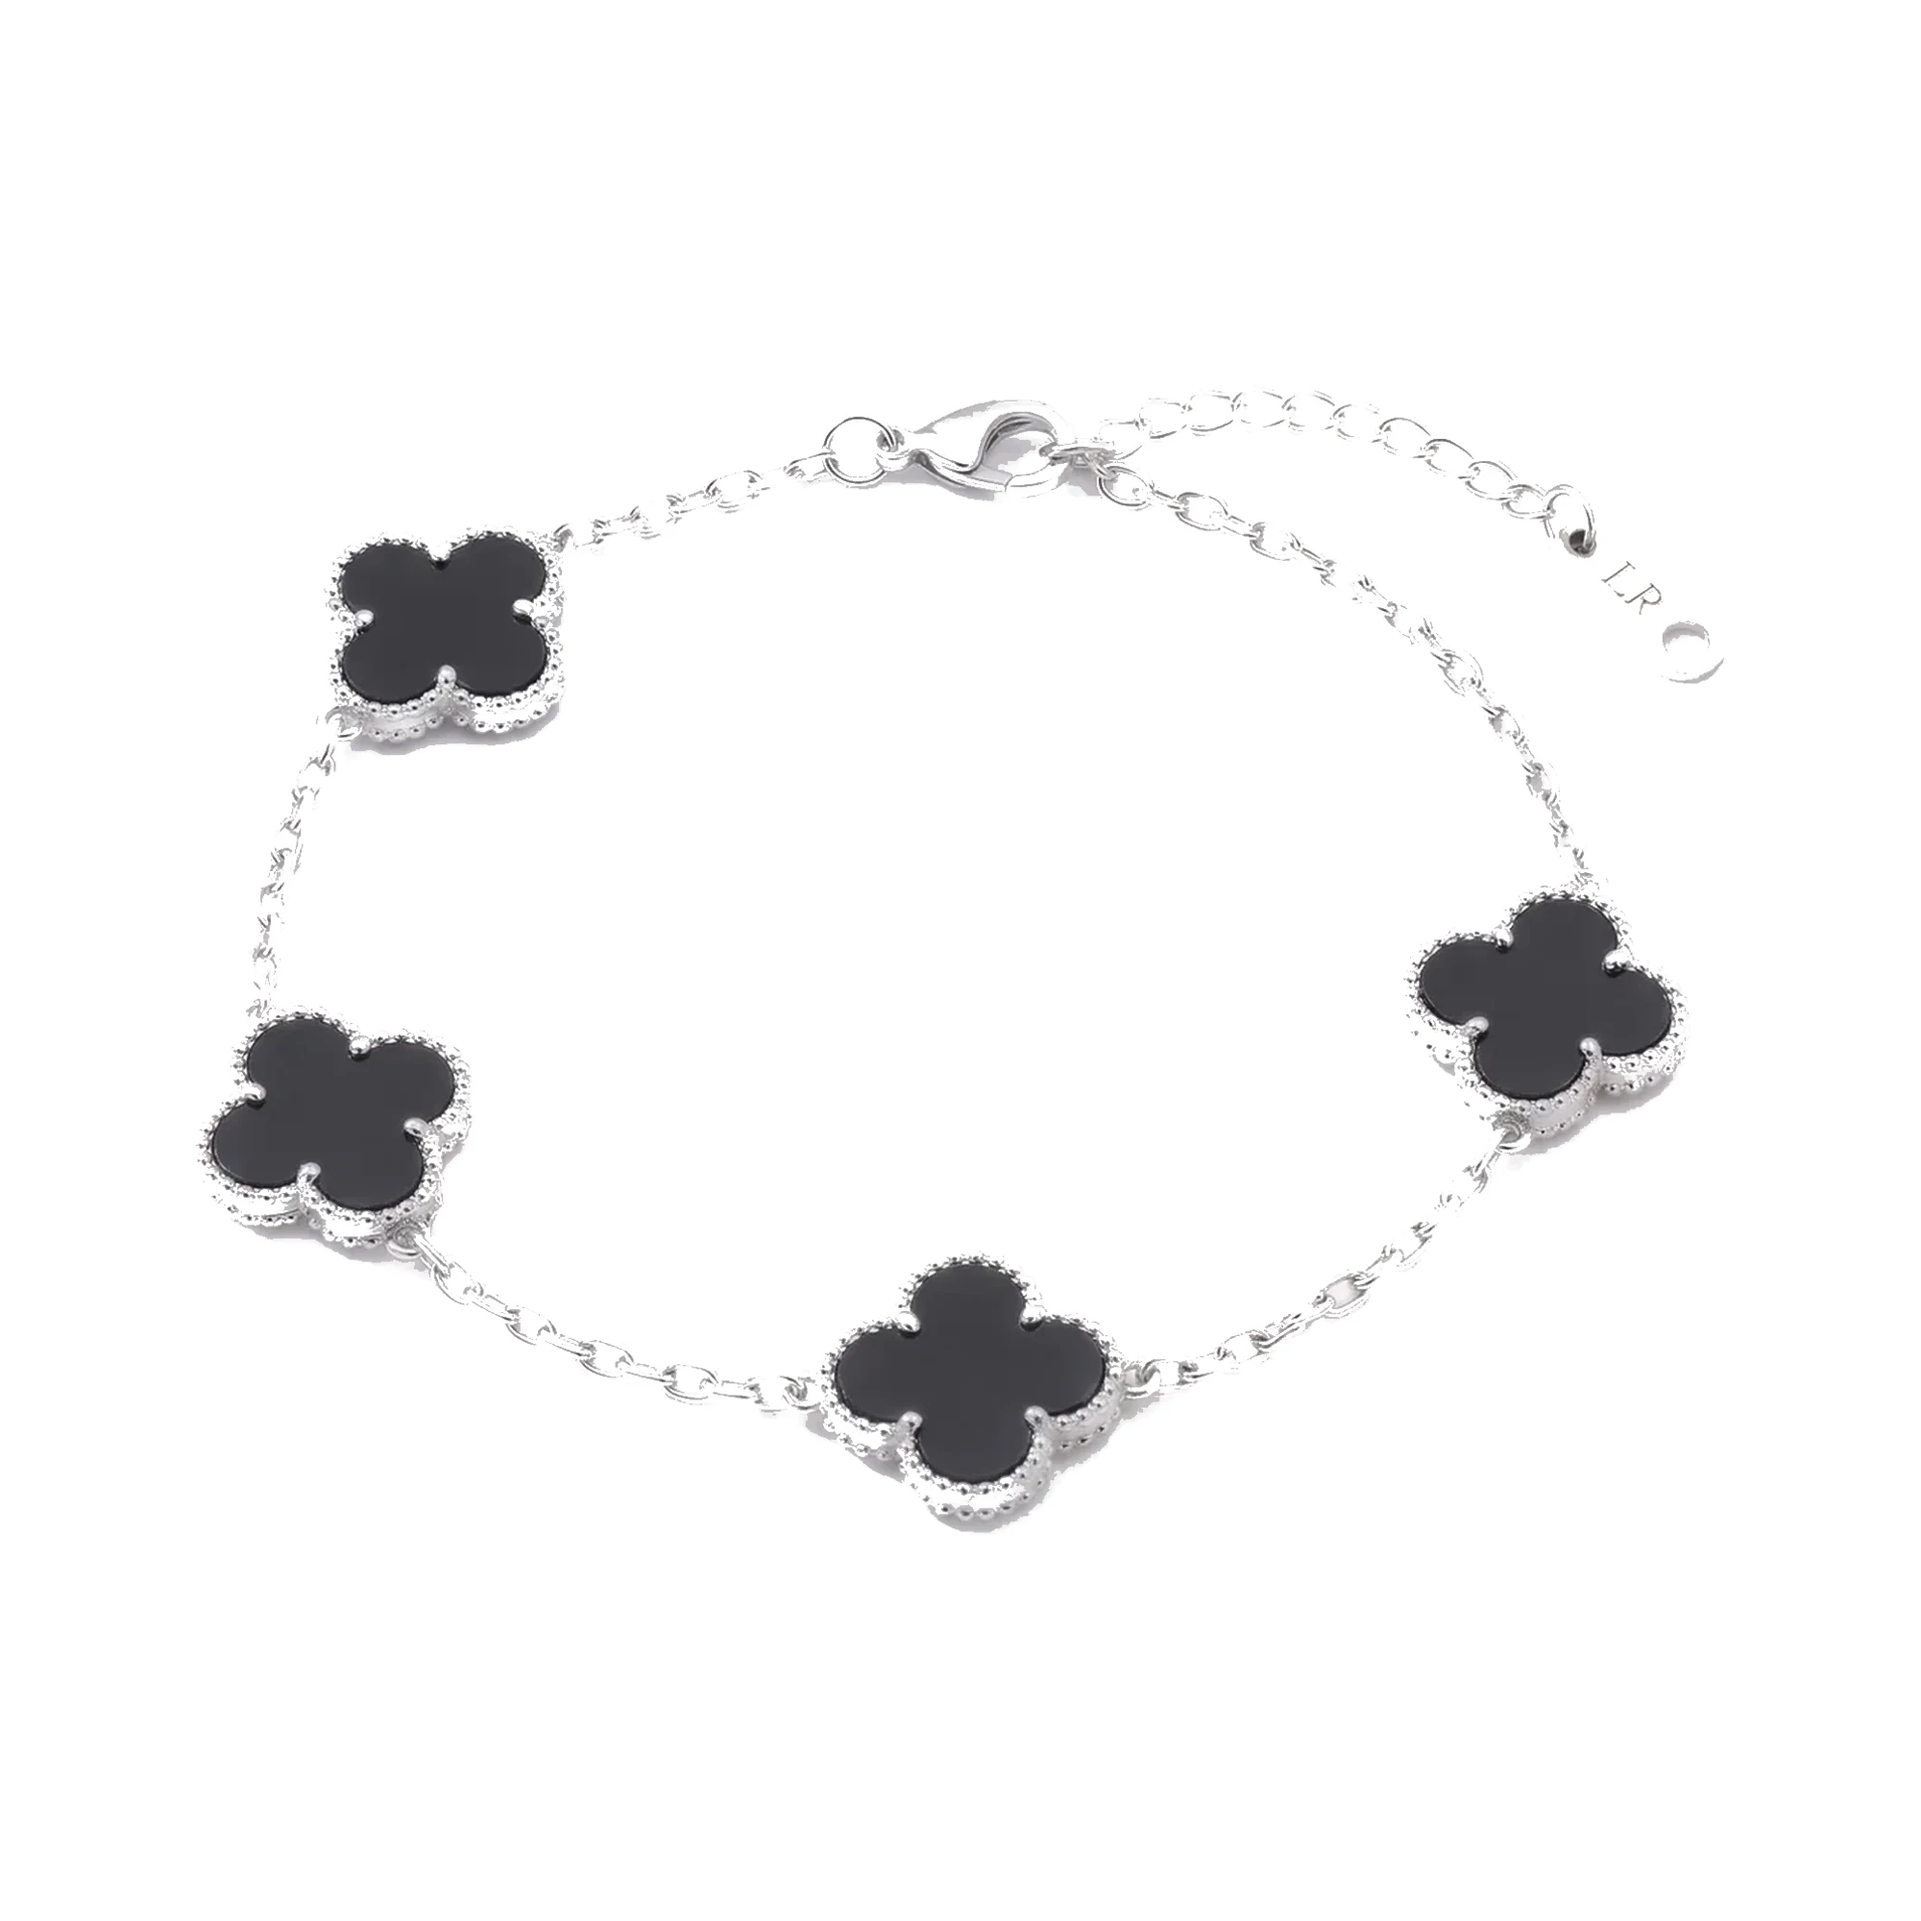
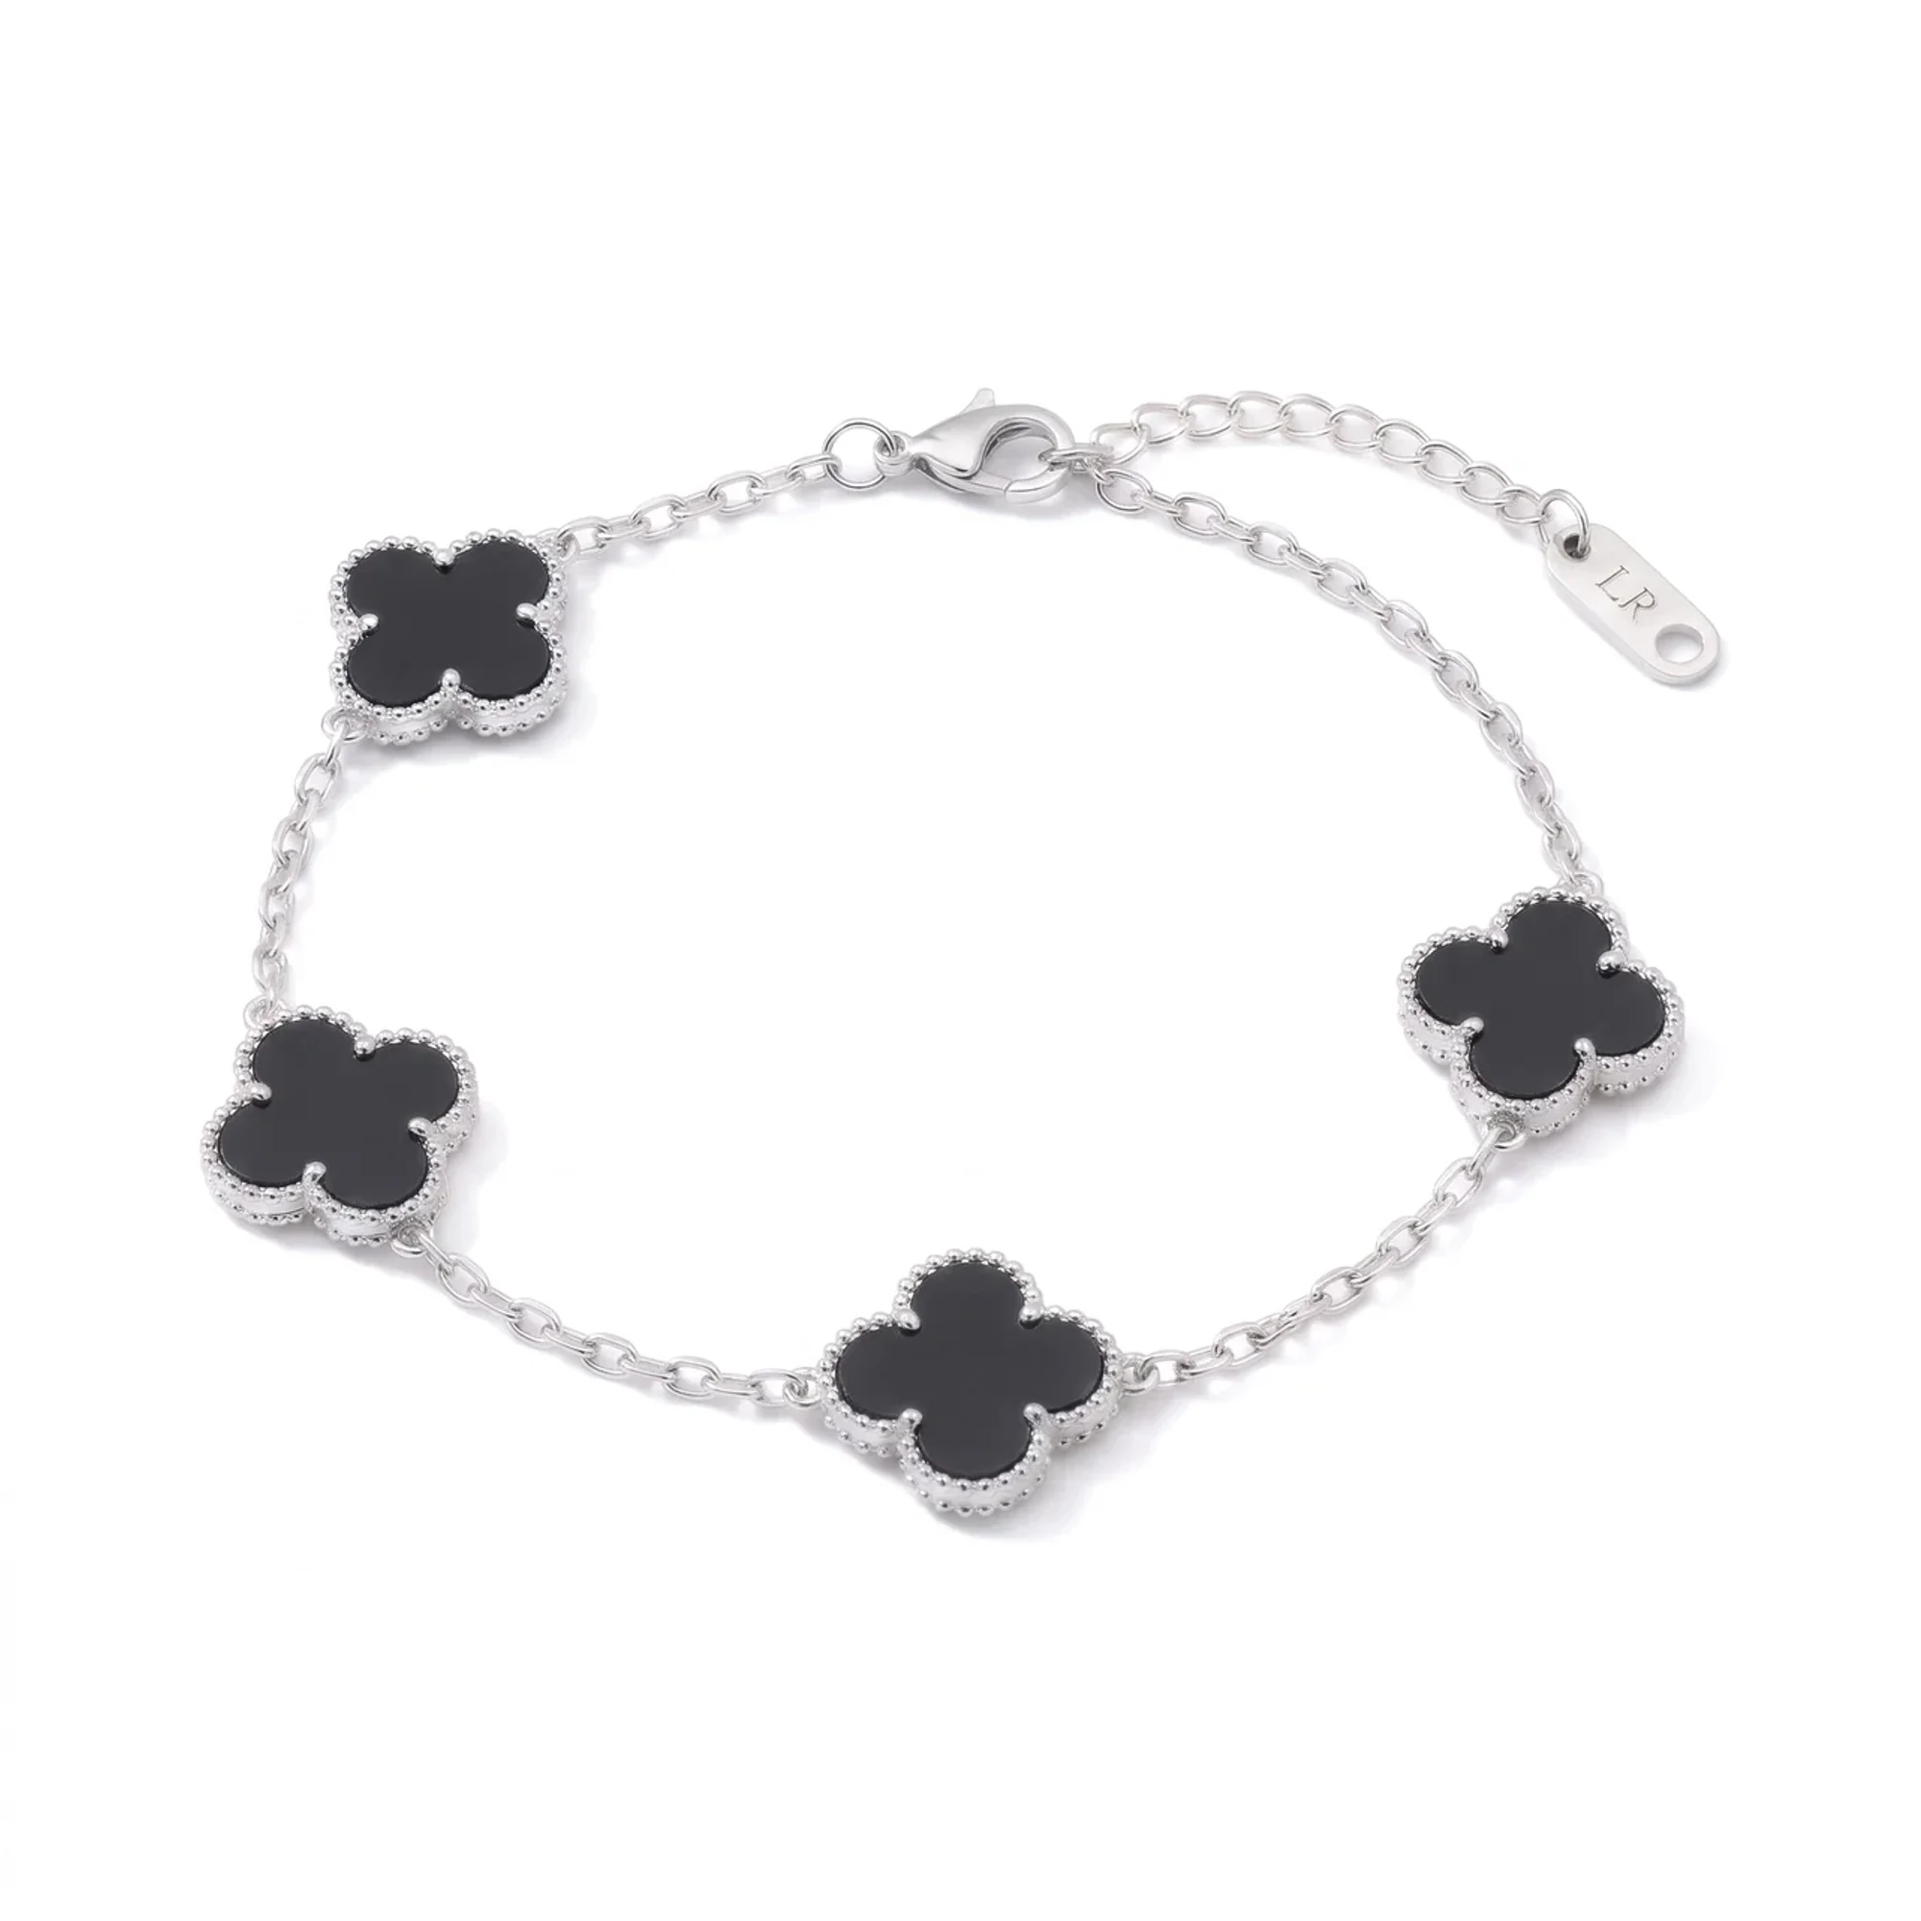
Silver bracelets: your raw 4-clover photos as no. 1 for Verdis / Noctis / Lumen Сребро (backgrounds untouched); collection cards: hover photo fills the card

Changed region(s): [[0.093, 0.186, 0.899, 0.806], [0.744, 0.341, 0.775, 0.372]]

diff --git a/lib/new-collection.ts b/lib/new-collection.ts
@@ -76,7 +76,7 @@ export const COLLECTION_PHOTOS: Readonly<Record<string, string>> = {
   "bracelet-verdis-gold": "pmbdc",
   "bracelet-verdis-silver": "pmbc",
   "bracelet-lumen-gold": "pmbdc",
-  "bracelet-lumen-silver": "mbc",
+  "bracelet-lumen-silver": "pmbc",
   "bracelet-noctis-gold": "pmbc",
   "bracelet-noctis-silver": "pmbc",
   "bracelet-linea-gold": "pmbdc",
@@ -117,7 +117,7 @@ export const collectionPhoto = (file: string): string =>
 /** The two on-model photos of the home section's large image: a necklace on the neck, a bracelet on the wrist (Lumen Сребро). */
 export const HOME_HERO_PHOTOS = {
   necklace: collectionPhoto("lumen-necklace-silver-2.webp"),
-  bracelet: collectionPhoto("lumen-bracelet-silver-1.webp"),
+  bracelet: collectionPhoto("lumen-bracelet-silver-2.webp"),
 } as const;
 
 export const NEW_COLLECTION_SLUGS: ReadonlySet<string> = new Set(COLLECTION_PIECES.map((p) => p.slug));

diff --git a/components/product/ProductCard.tsx b/components/product/ProductCard.tsx
@@ -149,7 +149,8 @@ export function ProductCard({ product, priority = false, learnMore = false }: Pr
               fill
               quality={80}
               sizes="(max-width: 640px) 50vw, (max-width: 1024px) 33vw, 25vw"
-              className={`object-contain object-center p-4 transition-all duration-700 ease-out ${
+              // Women's collection: the hover photo (on model) fills the card edge to edge - no padding, same box as photo no. 1.
+              className={`${isCollectionSlug(product.slug) ? "object-cover" : "object-contain p-4"} object-center transition-all duration-700 ease-out ${
                 hovered ? "opacity-100 scale-100" : "opacity-0 scale-95"
               }`}
             />

diff --git a/components/ro/RoProductCard.tsx b/components/ro/RoProductCard.tsx
@@ -166,7 +166,8 @@ export function RoProductCard({ product, priority = false, learnMore = false }: 
               fill
               quality={80}
               sizes="(max-width: 640px) 50vw, (max-width: 1024px) 33vw, 25vw"
-              className={`object-contain object-center p-4 transition-all duration-700 ease-out ${
+              // Women's collection: the hover photo (on model) fills the card edge to edge - no padding, same box as photo no. 1.
+              className={`${isCollectionSlug(product.slug) ? "object-cover" : "object-contain p-4"} object-center transition-all duration-700 ease-out ${
                 hovered ? "opacity-100 scale-100" : "opacity-0 scale-95"
               }`}
             />
